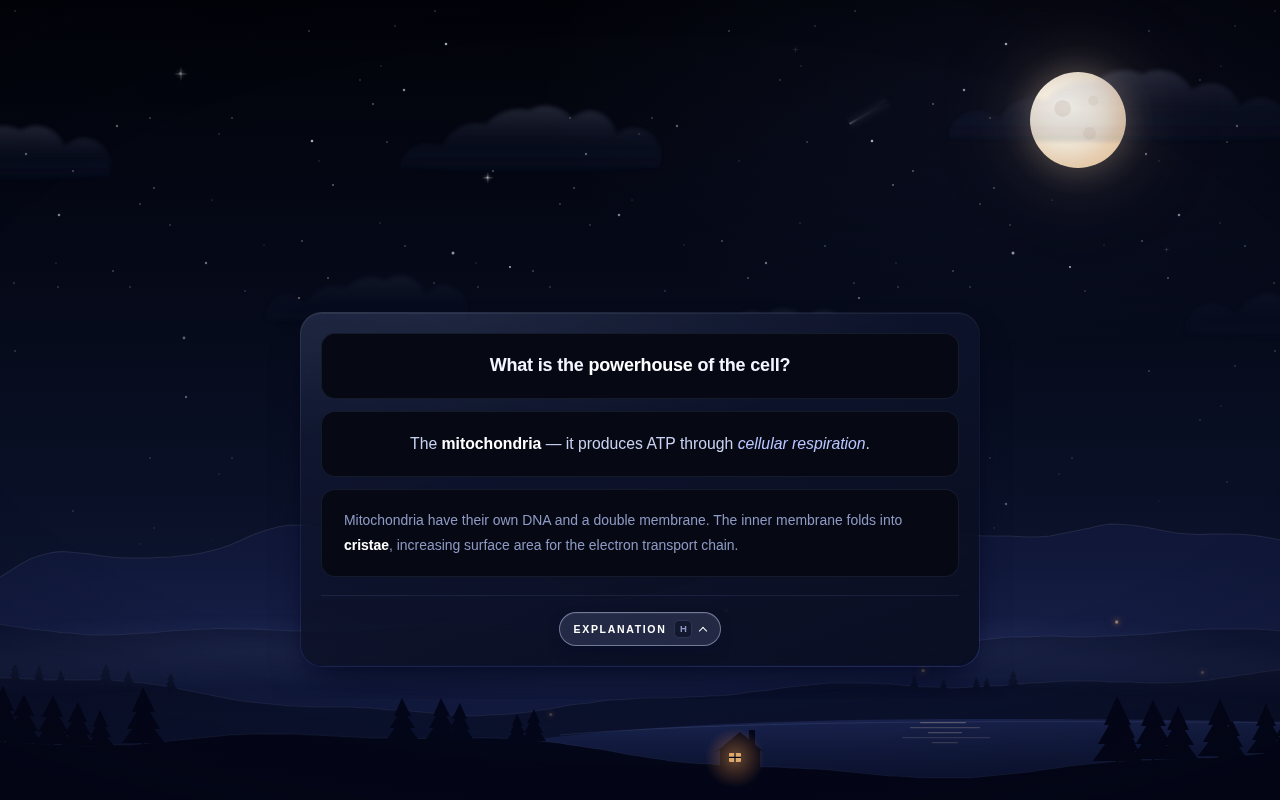
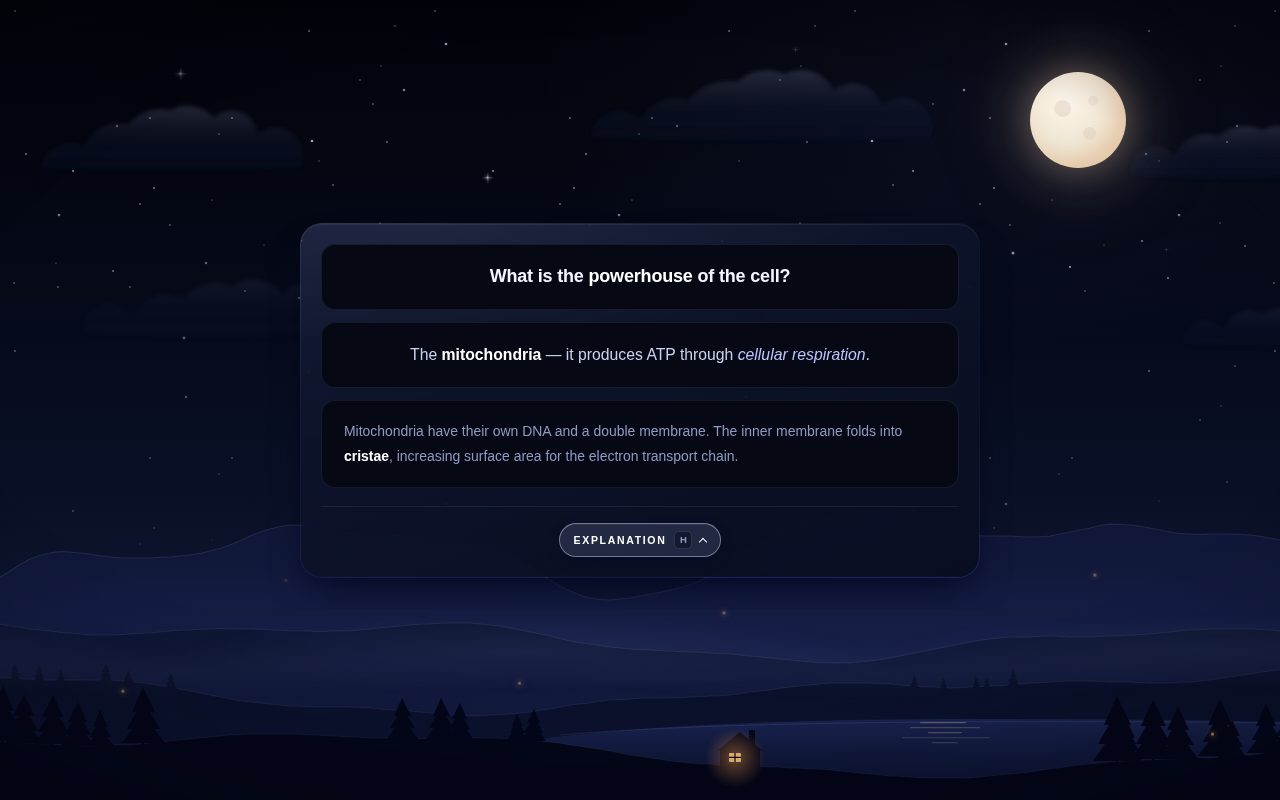
Keep the card centred at every height
Centre the card on its current height and re-centre it from a
ResizeObserver, so as the answer slides open or the explanation expands
the card grows evenly from the middle of the screen, staying centred
on every painted frame. Cards taller than the screen start at the top
and scroll.

Claude-Session: https://claude.ai/code/session_01GeAXbBMqDku8YSU6JA8Q3r

diff --git a/back.html b/back.html
@@ -91,15 +91,15 @@
 
 <script>
 (function () {
-  /* ── Vertical centring that never moves the question ──
-     The card is centred using its *front-side* height (question + footer)
-     on both sides, so on the back the question sits exactly where it was
-     and the answer opens below it.
+  /* ── Always-centred card ──
+     The card is centred on its *current* height. A ResizeObserver
+     re-centres it on every frame its size changes (the answer sliding
+     open, the explanation expanding, images loading), so it grows evenly
+     up and down from the middle of the screen instead of jumping.
 
-     It runs immediately (before first paint) and again whenever the page
-     settles further: next frame, window load, fonts ready, images loaded,
-     Anki's "card shown" hook and resizes. Each run is idempotent, so if
-     the first measurement was already right nothing moves. */
+     On the back the answer starts collapsed, so the first frame matches
+     the front exactly; the card then glides to its new centre as the
+     answer opens. Taller-than-screen cards start at the top and scroll. */
   function viewportHeight() {
     return (window.visualViewport && window.visualViewport.height) ||
       window.innerHeight || document.documentElement.clientHeight || 0;
@@ -107,39 +107,39 @@
 
   window.gmPlaceCard = function () {
     var panel = document.getElementById('gm-panel');
-    var q = document.getElementById('gm-question');
-    var footer = document.getElementById('gm-footer');
     var vh = viewportHeight();
-    if (!panel || !q || !footer || !vh) return;
+    if (!panel || !vh) return;
 
     var px = function (v) { return parseFloat(v) || 0; };
-    var ps = getComputedStyle(panel);
-    var frontHeight =
-      px(ps.paddingTop) + px(ps.paddingBottom) +
-      px(ps.borderTopWidth) + px(ps.borderBottomWidth) +
-      q.offsetHeight + footer.offsetHeight + px(getComputedStyle(footer).marginTop);
+    var current = px(getComputedStyle(panel).marginTop);
 
     // Untransformed page position of the panel (ignores entrance animation).
     var top = 0;
     for (var el = panel; el; el = el.offsetParent) top += el.offsetTop;
 
-    var target = Math.max(16, Math.round((vh - frontHeight) / 2));
-    var margin = Math.round(px(ps.marginTop) + target - top);
-    if (Math.abs(margin - px(ps.marginTop)) >= 1) panel.style.marginTop = margin + 'px';
+    var target = Math.max(16, Math.round((vh - panel.offsetHeight) / 2));
+    var margin = Math.round(current + target - top);
+    if (Math.abs(margin - current) >= 1) panel.style.marginTop = margin + 'px';
   };
 
   var place = function () { window.gmPlaceCard(); };
   place();
 
+  // Follow every size change of the card (Anki desktop reuses the page,
+  // so drop the observer that belonged to the previous card first).
+  if (window.gmPanelObserver) window.gmPanelObserver.disconnect();
+  var panel = document.getElementById('gm-panel');
+  if (panel && window.ResizeObserver) {
+    window.gmPanelObserver = new ResizeObserver(place);
+    window.gmPanelObserver.observe(panel);
+  }
+
+  // Safety nets for when the page itself settles later.
   if (window.requestAnimationFrame) requestAnimationFrame(place);
   if (document.readyState !== 'complete') window.addEventListener('load', place);
   if (document.fonts && document.fonts.ready) document.fonts.ready.then(place);
   if (window.onShownHook && window.onShownHook.push) window.onShownHook.push(place); // Anki desktop
 
-  var imgs = document.querySelectorAll('#gm-question img');
-  for (var i = 0; i < imgs.length; i++) {
-    if (!imgs[i].complete) imgs[i].addEventListener('load', place);
-  }
   if (!window.gmPlaceBound) {
     window.gmPlaceBound = true;
     window.addEventListener('resize', place);

diff --git a/front.html b/front.html
@@ -75,15 +75,15 @@
 
 <script>
 (function () {
-  /* ── Vertical centring that never moves the question ──
-     The card is centred using its *front-side* height (question + footer)
-     on both sides, so on the back the question sits exactly where it was
-     and the answer opens below it.
+  /* ── Always-centred card ──
+     The card is centred on its *current* height. A ResizeObserver
+     re-centres it on every frame its size changes (the answer sliding
+     open, the explanation expanding, images loading), so it grows evenly
+     up and down from the middle of the screen instead of jumping.
 
-     It runs immediately (before first paint) and again whenever the page
-     settles further: next frame, window load, fonts ready, images loaded,
-     Anki's "card shown" hook and resizes. Each run is idempotent, so if
-     the first measurement was already right nothing moves. */
+     On the back the answer starts collapsed, so the first frame matches
+     the front exactly; the card then glides to its new centre as the
+     answer opens. Taller-than-screen cards start at the top and scroll. */
   function viewportHeight() {
     return (window.visualViewport && window.visualViewport.height) ||
       window.innerHeight || document.documentElement.clientHeight || 0;
@@ -91,39 +91,39 @@
 
   window.gmPlaceCard = function () {
     var panel = document.getElementById('gm-panel');
-    var q = document.getElementById('gm-question');
-    var footer = document.getElementById('gm-footer');
     var vh = viewportHeight();
-    if (!panel || !q || !footer || !vh) return;
+    if (!panel || !vh) return;
 
     var px = function (v) { return parseFloat(v) || 0; };
-    var ps = getComputedStyle(panel);
-    var frontHeight =
-      px(ps.paddingTop) + px(ps.paddingBottom) +
-      px(ps.borderTopWidth) + px(ps.borderBottomWidth) +
-      q.offsetHeight + footer.offsetHeight + px(getComputedStyle(footer).marginTop);
+    var current = px(getComputedStyle(panel).marginTop);
 
     // Untransformed page position of the panel (ignores entrance animation).
     var top = 0;
     for (var el = panel; el; el = el.offsetParent) top += el.offsetTop;
 
-    var target = Math.max(16, Math.round((vh - frontHeight) / 2));
-    var margin = Math.round(px(ps.marginTop) + target - top);
-    if (Math.abs(margin - px(ps.marginTop)) >= 1) panel.style.marginTop = margin + 'px';
+    var target = Math.max(16, Math.round((vh - panel.offsetHeight) / 2));
+    var margin = Math.round(current + target - top);
+    if (Math.abs(margin - current) >= 1) panel.style.marginTop = margin + 'px';
   };
 
   var place = function () { window.gmPlaceCard(); };
   place();
 
+  // Follow every size change of the card (Anki desktop reuses the page,
+  // so drop the observer that belonged to the previous card first).
+  if (window.gmPanelObserver) window.gmPanelObserver.disconnect();
+  var panel = document.getElementById('gm-panel');
+  if (panel && window.ResizeObserver) {
+    window.gmPanelObserver = new ResizeObserver(place);
+    window.gmPanelObserver.observe(panel);
+  }
+
+  // Safety nets for when the page itself settles later.
   if (window.requestAnimationFrame) requestAnimationFrame(place);
   if (document.readyState !== 'complete') window.addEventListener('load', place);
   if (document.fonts && document.fonts.ready) document.fonts.ready.then(place);
   if (window.onShownHook && window.onShownHook.push) window.onShownHook.push(place); // Anki desktop
 
-  var imgs = document.querySelectorAll('#gm-question img');
-  for (var i = 0; i < imgs.length; i++) {
-    if (!imgs[i].complete) imgs[i].addEventListener('load', place);
-  }
   if (!window.gmPlaceBound) {
     window.gmPlaceBound = true;
     window.addEventListener('resize', place);

diff --git a/src/place.html b/src/place.html
@@ -1,14 +1,14 @@
 <script>
 (function () {
-  /* ── Vertical centring that never moves the question ──
-     The card is centred using its *front-side* height (question + footer)
-     on both sides, so on the back the question sits exactly where it was
-     and the answer opens below it.
+  /* ── Always-centred card ──
+     The card is centred on its *current* height. A ResizeObserver
+     re-centres it on every frame its size changes (the answer sliding
+     open, the explanation expanding, images loading), so it grows evenly
+     up and down from the middle of the screen instead of jumping.
 
-     It runs immediately (before first paint) and again whenever the page
-     settles further: next frame, window load, fonts ready, images loaded,
-     Anki's "card shown" hook and resizes. Each run is idempotent, so if
-     the first measurement was already right nothing moves. */
+     On the back the answer starts collapsed, so the first frame matches
+     the front exactly; the card then glides to its new centre as the
+     answer opens. Taller-than-screen cards start at the top and scroll. */
   function viewportHeight() {
     return (window.visualViewport && window.visualViewport.height) ||
       window.innerHeight || document.documentElement.clientHeight || 0;
@@ -16,39 +16,39 @@
 
   window.gmPlaceCard = function () {
     var panel = document.getElementById('gm-panel');
-    var q = document.getElementById('gm-question');
-    var footer = document.getElementById('gm-footer');
     var vh = viewportHeight();
-    if (!panel || !q || !footer || !vh) return;
+    if (!panel || !vh) return;
 
     var px = function (v) { return parseFloat(v) || 0; };
-    var ps = getComputedStyle(panel);
-    var frontHeight =
-      px(ps.paddingTop) + px(ps.paddingBottom) +
-      px(ps.borderTopWidth) + px(ps.borderBottomWidth) +
-      q.offsetHeight + footer.offsetHeight + px(getComputedStyle(footer).marginTop);
+    var current = px(getComputedStyle(panel).marginTop);
 
     // Untransformed page position of the panel (ignores entrance animation).
     var top = 0;
     for (var el = panel; el; el = el.offsetParent) top += el.offsetTop;
 
-    var target = Math.max(16, Math.round((vh - frontHeight) / 2));
-    var margin = Math.round(px(ps.marginTop) + target - top);
-    if (Math.abs(margin - px(ps.marginTop)) >= 1) panel.style.marginTop = margin + 'px';
+    var target = Math.max(16, Math.round((vh - panel.offsetHeight) / 2));
+    var margin = Math.round(current + target - top);
+    if (Math.abs(margin - current) >= 1) panel.style.marginTop = margin + 'px';
   };
 
   var place = function () { window.gmPlaceCard(); };
   place();
 
+  // Follow every size change of the card (Anki desktop reuses the page,
+  // so drop the observer that belonged to the previous card first).
+  if (window.gmPanelObserver) window.gmPanelObserver.disconnect();
+  var panel = document.getElementById('gm-panel');
+  if (panel && window.ResizeObserver) {
+    window.gmPanelObserver = new ResizeObserver(place);
+    window.gmPanelObserver.observe(panel);
+  }
+
+  // Safety nets for when the page itself settles later.
   if (window.requestAnimationFrame) requestAnimationFrame(place);
   if (document.readyState !== 'complete') window.addEventListener('load', place);
   if (document.fonts && document.fonts.ready) document.fonts.ready.then(place);
   if (window.onShownHook && window.onShownHook.push) window.onShownHook.push(place); // Anki desktop
 
-  var imgs = document.querySelectorAll('#gm-question img');
-  for (var i = 0; i < imgs.length; i++) {
-    if (!imgs[i].complete) imgs[i].addEventListener('load', place);
-  }
   if (!window.gmPlaceBound) {
     window.gmPlaceBound = true;
     window.addEventListener('resize', place);

diff --git a/README.md b/README.md
@@ -30,9 +30,10 @@ The note type needs the fields **Front**, **Back** and **Explanation**.
   SVG (fully painted on the first frame, nothing pops in), uses system fonts (no
   network font reflow), and every moving layer only animates `transform`/`opacity`
   on the GPU — an idle card does no repainting at all.
-- **Centred card, steady question** — the card is vertically centred by its front-side
-  height on both sides, so on flip the question stays put and the answer slides open
-  below it (pure CSS reveal). The card sits on its own GPU layer so text never shimmers.
+- **Always centred** — the card is centred on its current height and re-centres on
+  every frame its size changes, so when the answer or explanation opens it grows evenly
+  up and down from the middle of the screen (taller-than-screen cards scroll). The card
+  sits on its own GPU layer so text never shimmers.
 - **Explanation drawer** — click the button, press **H** on desktop, or bind
   AnkiDroid's *User Action 1* (`userJs1`). The button is disabled when the card has no
   explanation, and appears (disabled) on the front so the layout never shifts.
